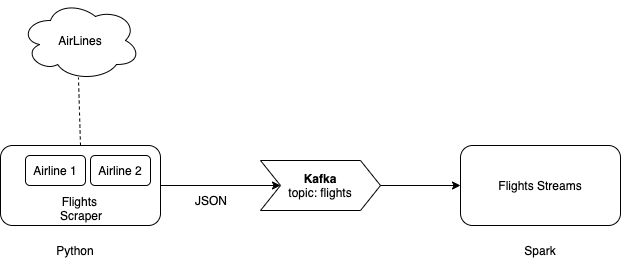
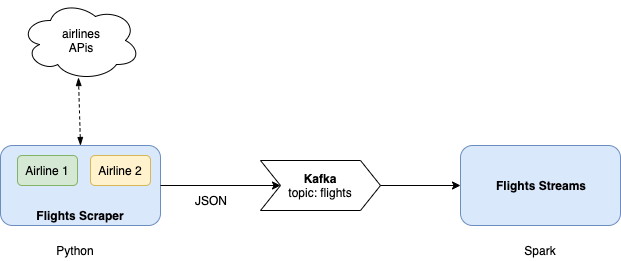
README file and diagram

diff --git a/README.md b/README.md
@@ -1,0 +1,48 @@
+# Flight price evolution
+## Overview
+This is a pet project to gather airline prices from their APIs and monitor minimum prices per route.
+
+The project has 2 main modules. The following diagram shows the workflow:
+
+![Components diagram](https://github.com/d1eg0/flights-price-evolution/raw/master/docs/components-flow.png "Components diagram")
+
+- flights-scraper: gathers the prices from different airlines and sends to Kafka.
+- flights-streams: reads prices from Kafka and filters minimum prices by route for a given window time.
+
+## Run tests
+flights-scraper:
+```bash
+cd flights-scraper
+pytest
+```
+flights-streams:
+```bash
+cd flights-streams
+sbt test
+```
+
+## Install
+
+Install the flights-scraper python package:
+```bash
+cd flights-scraper
+python setup.py
+```
+
+Install Kafka and start the server as described in <https://kafka.apache.org/quickstart>. Once the server is up, create the Kafka topic **flights**:
+```bash
+./kafka-topics.sh --create --bootstrap-server 0.0.0.0:9092 --replication-factor 1 --partitions 1 --topic flights
+```
+
+## Run in local
+
+Run flights-streams to process incoming prices:
+```bash
+cd flights-streams
+sbt run
+```
+
+Run flights-scraper to gather prices:
+```bash
+python -m scraper.run
+```
